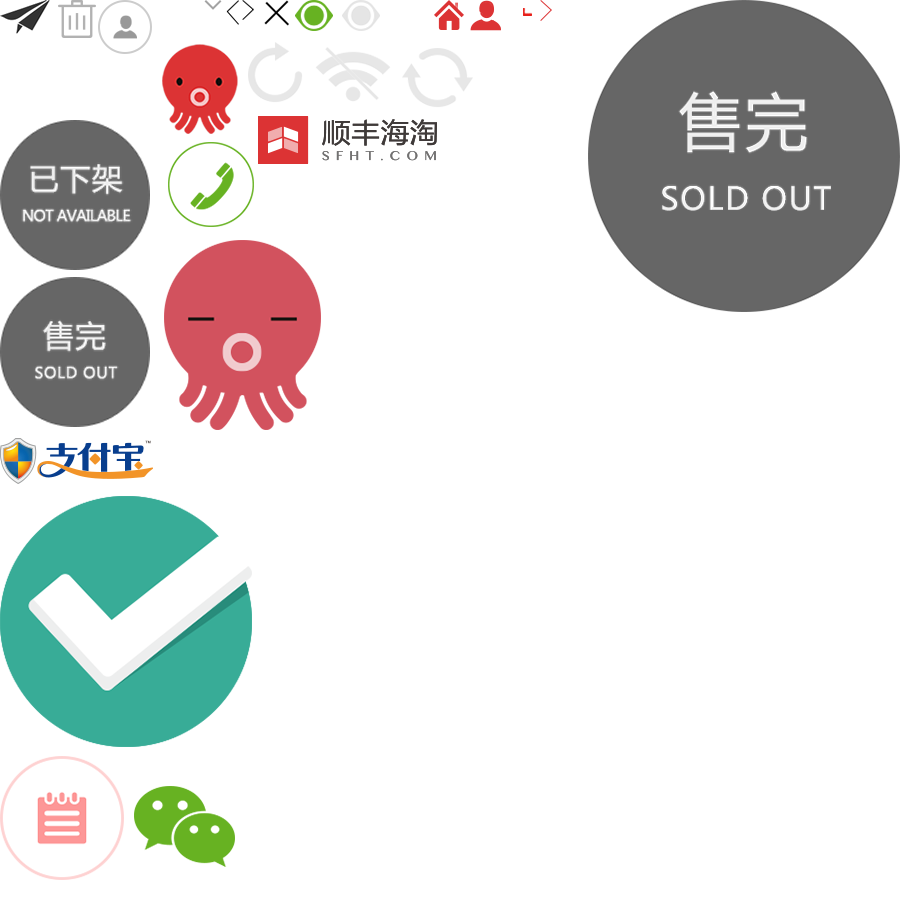
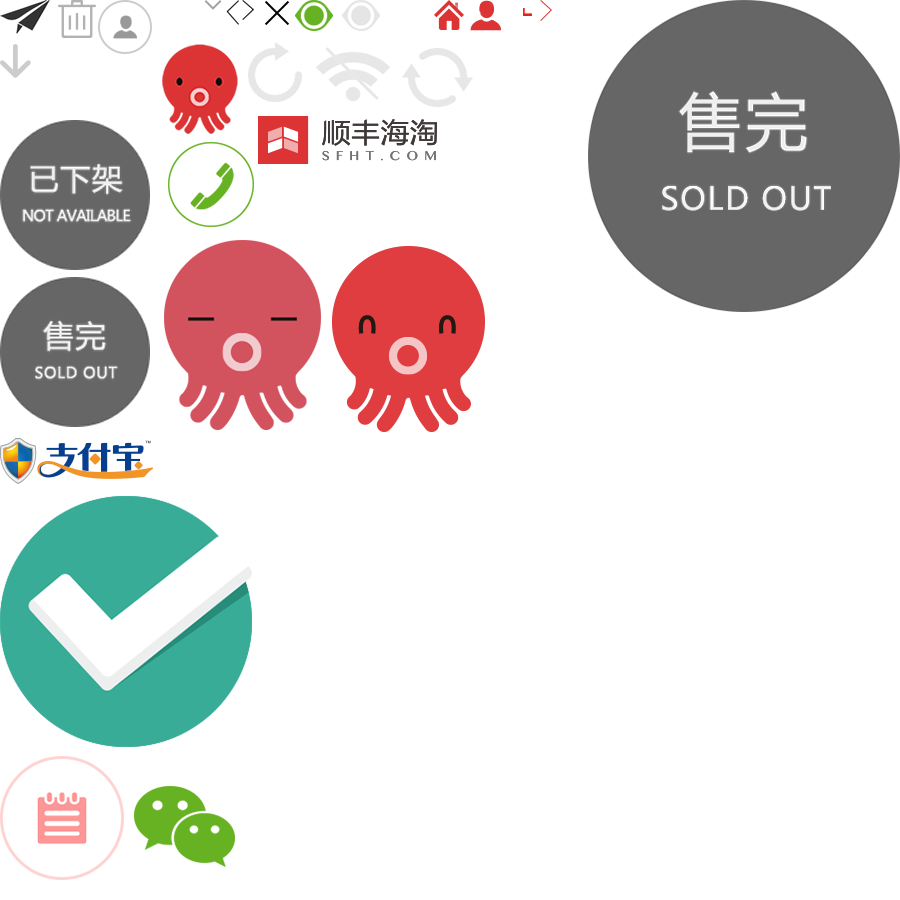
个人中心，支付成功修改

Changed region(s): [[0.3422, 0.2489, 0.56, 0.4978], [0.28, 0.0, 0.3111, 0.0311], [0.0, 0.0622, 0.0311, 0.0933]]

diff --git a/app/static/css/style.css b/app/static/css/style.css
@@ -299,6 +299,16 @@ button{
   height: 11px;
   background-position: -270px 0;
 }
+.icon29{
+  width: 16px;
+  height: 17px;
+  background-position: 0 -22px;
+}
+.icon30{
+  width: 77px;
+  height: 93px;
+  background-position: -166px -123px;
+}
 
 /*btn*/
 .btn{
@@ -1003,15 +1013,37 @@ button{
 }
 /*支付成功*/
 .pay{
-  padding: 73px 14px 63px;
-  background: #fff;
+  padding-top: 66px;
+  padding-bottom: 164px;
   text-align: center;
+  background: url(../img/pay.png) no-repeat center bottom,url(../img/pay2.png) no-repeat center 43px;
+  background-size: 320px,225px;
 }
-.pay h1{
-  margin-top: 23px;
-  margin-bottom: 30px;
-  font-weight: normal;
+.pay h2{
+  font-size: 18px;
+  color: #dc3334;
+  margin-bottom: 12px;
 }
+.pay p{
+  font-size: 14px;
+  color: #999;
+  margin-bottom: 15px;
+}
+.pay-r1{
+  margin-bottom: 8px;
+}
+.pay-r2{
+  margin-bottom: 16px;
+}
+.pay-r3{
+  margin-bottom: 15px;
+}
+.pay-r4 a{
+  font-size: 15px;
+  color: #666;
+  text-decoration: underline;
+}
+/*mask*/
 .mask{
   position: fixed;
   width: 100%;
@@ -1041,26 +1073,7 @@ border-radius:20px;
 0%{-ms-transform:rotate(0deg)}
 100%{-ms-transform:rotate(360deg)}
 }
-/*关注*/
-.attention{
-  padding: 19px 0 27px;
-  border: 1px solid #ccc;
-  position: relative;
-}
-.attention p{
-  font-size: 13px;
-  line-height: 24px;
-  color: #878989;
-  text-align: center;
-}
-.attention .btn{
-  color: #999;
-  top: 100%;
-  font-size: 9px;
-}
-.attention .icon{
-  top: -9px;
-}
+
 
 /*fixed*/
 .fixed{
@@ -1498,10 +1511,10 @@ border-radius:20px;
   font-size: 17px;
   color: #fff;
   text-align: center;
-  height: 200px;
-  line-height: 200px;
-  background: url(../img/person.jpg) no-repeat;
-  background-size: cover;
+  height: 110px;
+  background: #da494f url(../img/person.jpg) no-repeat center bottom;
+  background-size: 320px;
+  padding-top: 24px;
 }
 .person-r2{
   padding-top: 48px;

diff --git a/app/static/pay-success.html b/app/static/pay-success.html
@@ -7,19 +7,24 @@
 	<link rel="stylesheet" href="css/style.css">
 
 </head>
-<body>
+<body class="body1">
 	<!--支付成功-->
 	<section class="pay">
-		<span class="icon icon11"></span>
-		<h1>恭喜您,订单支付成功</h1>
-		<a href="order.html" class="btn btn-warnning btn-big">返回订单列表</a>
-	</section>
-	<!--支付成功-->
-	<!--关注-->
-	<section class="attention">
-		<span class="icon icon12 center"></span>
-		<p>关注顺丰海淘服务号<br>随时随地了解订单信息</p>
-		<button class="btn btn-normal btn-radius center">点击关注</button>
+		<h2>关注顺丰海淘服务号</h2>
+		<p>随时随地了解订单信息</p>
+		<div class="pay-r1">
+			<span class="icon icon30"></span>
+		</div>
+		<div class="pay-r1">
+			<button class="btn btn-normal btn-radius active">点击关注</button>
+		</div>
+		<div class="pay-r3">
+			<span class="icon icon29"></span>
+		</div>
+		<div class="pay-r4">
+			<a href="order.html">返回订单列表</a>
+		</div>
+				
 	</section>
 	<!--关注-->
 	

diff --git a/app/static/order-success.html b/app/static/order-success.html
@@ -23,10 +23,26 @@
 		
 	</section>
 	<!--订单提交成功-->
-	<section class="buy">
-		<div class="buy-r1">
-			<a href="detail-select.html" class="btn btn-danger btn-big">去支付</a>
-		</div>
-		
+	<!--立即购买-->
+	<section class="nav">
+		<div class="nav-r1">
+			<div class="nav-c1 fl">
+				<a href="">
+					<span class="icon icon25"></span>
+					<div>首页</div>
+				</a>			
+			</div>
+			<div class="nav-c1 fl">
+				<a href="">
+					<span class="icon icon26"></span>
+					<div>个人中心</div>
+				</a>				
+			</div>
+			<div class="nav-c2">
+				<button class="btn btn-danger btn-big">去支付</button>
+			</div>
+			
+		</div>		
 	</section>
+	<!--立即购买-->
 </html>

diff --git a/app/static/orderlist-none.html b/app/static/orderlist-none.html
@@ -12,8 +12,8 @@
 	<section class="tab">
 		<div class="tab-h">
 			<ul class="clearfix">
-				<li class="active">未完成(0)</li>
-				<li>完成</li>
+				<li class="active"><a href="">未完成(0)</a></li>
+				<li><a href="">完成</a></li>
 			</ul>
 		</div>
 		<ul class="tab-b active orderlist">

diff --git a/app/static/center.html b/app/static/center.html
@@ -7,7 +7,7 @@
 	<link rel="stylesheet" href="css/style.css">
 
 </head>
-<body class="body1>
+<body class="body1">
 	<section class="person">
 		<div class="person-r1">你好，138***1828</div>
 		<div class="person-r2">

diff --git a/app/static/common.html b/app/static/common.html
@@ -62,6 +62,8 @@
 	<span class="icon icon26"></span>
 	<span class="icon icon27"></span>
 	<span class="icon icon28"></span>
+	<span class="icon icon29"></span>
+	<span class="icon icon30"></span>
 
 
 	<h2>btn</h2>
